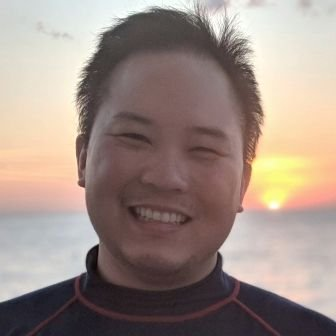
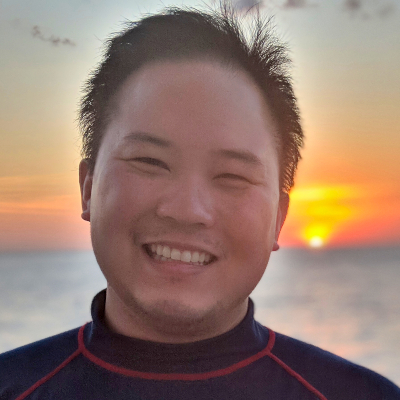
bio + pic update

diff --git a/content/authors/admin/_index.md b/content/authors/admin/_index.md
@@ -7,7 +7,7 @@ education:
   - course: PhD in Genetics, Bioinformatics, and Computational Biology
     institution: Virginia Tech
     year: 2021
-  - course: MPH in Epidemology
+  - course: MPH in Epidemiology
     institution: Columbia University - Mailman School of Public Health
     year: 2014
   - course: BA in Psychology - Behavioral neuroscience
@@ -19,7 +19,7 @@ interests:
 - Teaching data science skills
 - R
 - Python
-- Leaving the world a better place than I found it
+- Leaving the world in a better place
 name: Daniel Chen
 organizations:
 - name: Virginia Tech
@@ -53,21 +53,19 @@ user_groups:
 - Visitors
 ---
 
-I am a graduate student at Virginia Tech (VT) in
+I am a PhD student at Virginia Tech (VT) in
 Genetics, Bioinformatics, and Computational Biology ([GBCB][gbcb])
-doing statistics, computer science, and life science.
-My PhD is
-[up][bi-vt-uva-2018-07-31]
-[in][bi-vt-uva-2018-08-07-1]
-[the][bi-vt-uva-2018-08-07-2]
-[air][bi-vt-uva-2018-09-20]
-[at][bi-vt-uva-2019-09-21-1]
-[the][bi-vt-uva-2019-09-21-2]
-moment.
+working with
+[Anne Brown](https://bevanbrownlab.com/)
+bringing data science skills to medical practitioners so they can
+process data for medical research,
+better communicate with biostatisticians,
+interpret models,
+and make necessary changes as needed.
 
-[RStudio]({{ .Site.urls.rstudio }})
-[intern]({{ .Site.urls.rstudioIntern }})
-working on the [grader]({{ .Site.urls.grader }}) package
+Former [RStudio](https://www.rstudio.com/)
+[intern](https://blog.rstudio.com/2019/03/25/summer-interns-2019/)
+working on the [gradethis](https://github.com/rstudio-education/gradethis) package.
 
 [Arch Linux][arch] user who maintains the
 [RStudio Preview][aur-rstudio],
@@ -75,16 +73,12 @@ working on the [grader]({{ .Site.urls.grader }}) package
 [Rodeo][aur-rodeo]
 packages in the [AUR][aur].
 
+Author of [Pandas for Everyone](https://amzn.to/2lX2VOK).
+
+
 Enjoys: photography, curling, snowboarding, and scuba diving into caves.
 
 [gbcb]: http://gbcb.vbi.vt.edu/
-
-[bi-vt-uva-2018-07-31]: https://vtnews.vt.edu/articles/2018/07/unirel-bi-statement.html
-[bi-vt-uva-2018-08-07-1]: https://www.roanoke.com/news/education/higher_education/virginia_tech/virginia-tech-biocomplexity-institute-director-leaving-post-for-uva/article_7f16f45e-fd2f-55f6-abee-1e68e3aecfe4.html
-[bi-vt-uva-2018-08-07-2]: https://news.virginia.edu/content/uva-lead-statewide-biocomplexity-initiative
-[bi-vt-uva-2018-09-20]: https://www.roanoke.com/news/education/higher_education/perks-for-biocomplexity-researcher-who-left-tech-for-uva-released/article_9f02a6fe-f67b-50a6-8f3c-bfe661954505.html
-[bi-vt-uva-2019-09-21-1]: https://www.reddit.com/r/VirginiaTech/comments/9htdkf/inside_uvas_30_million_raid_on_techs/
-[bi-vt-uva-2019-09-21-2]: https://www.baconsrebellion.com/wp/uvas-30-million-raid-on-techs-biocomplexity-initiative/
 
 [arch]: https://www.archlinux.org/
 [aur]: https://aur.archlinux.org/
